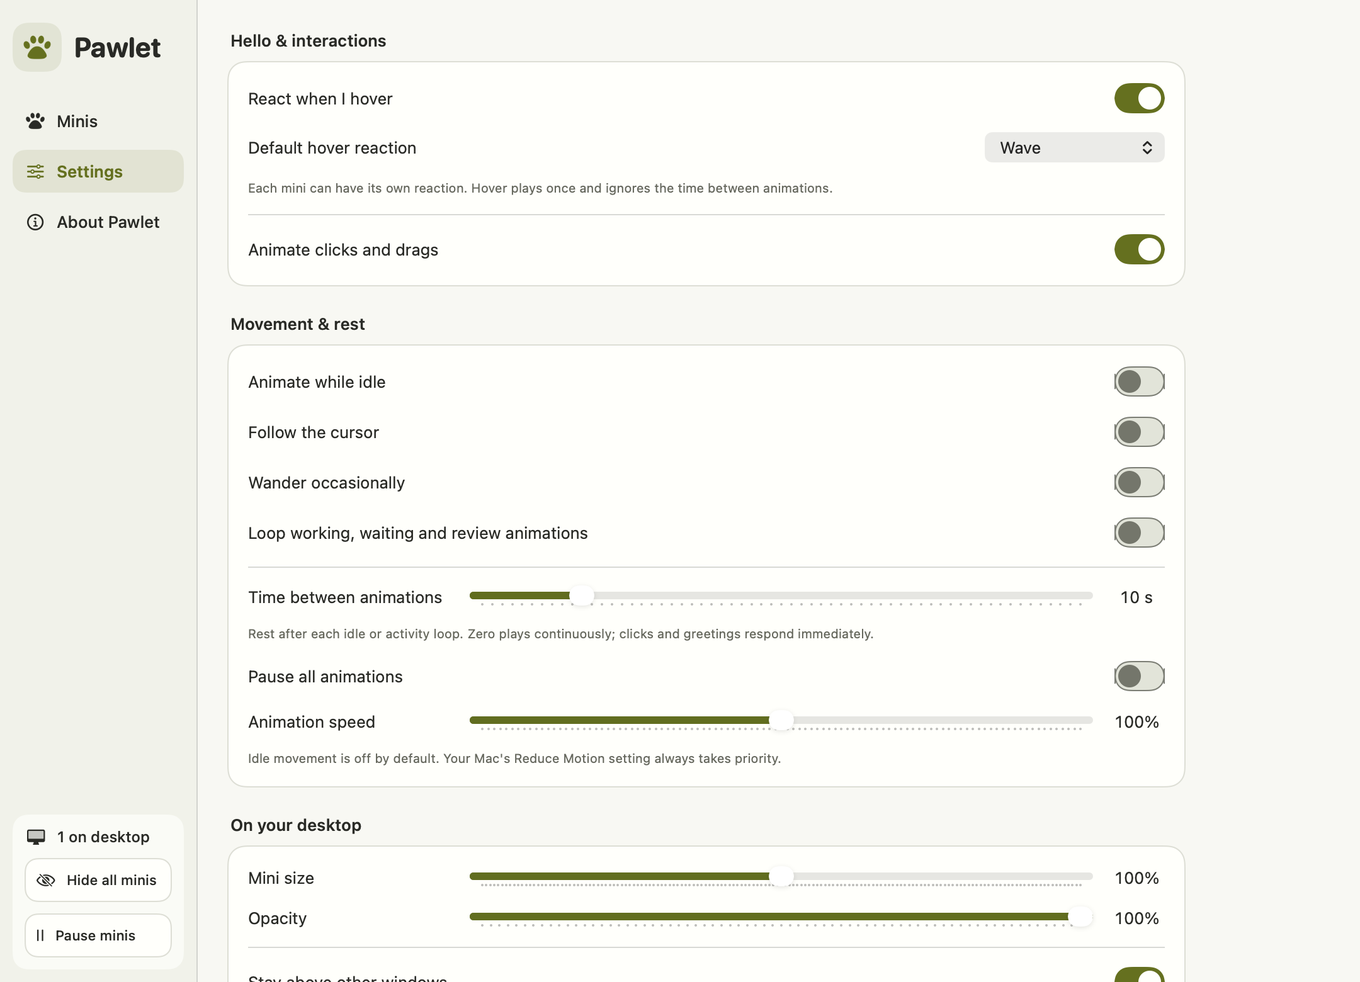
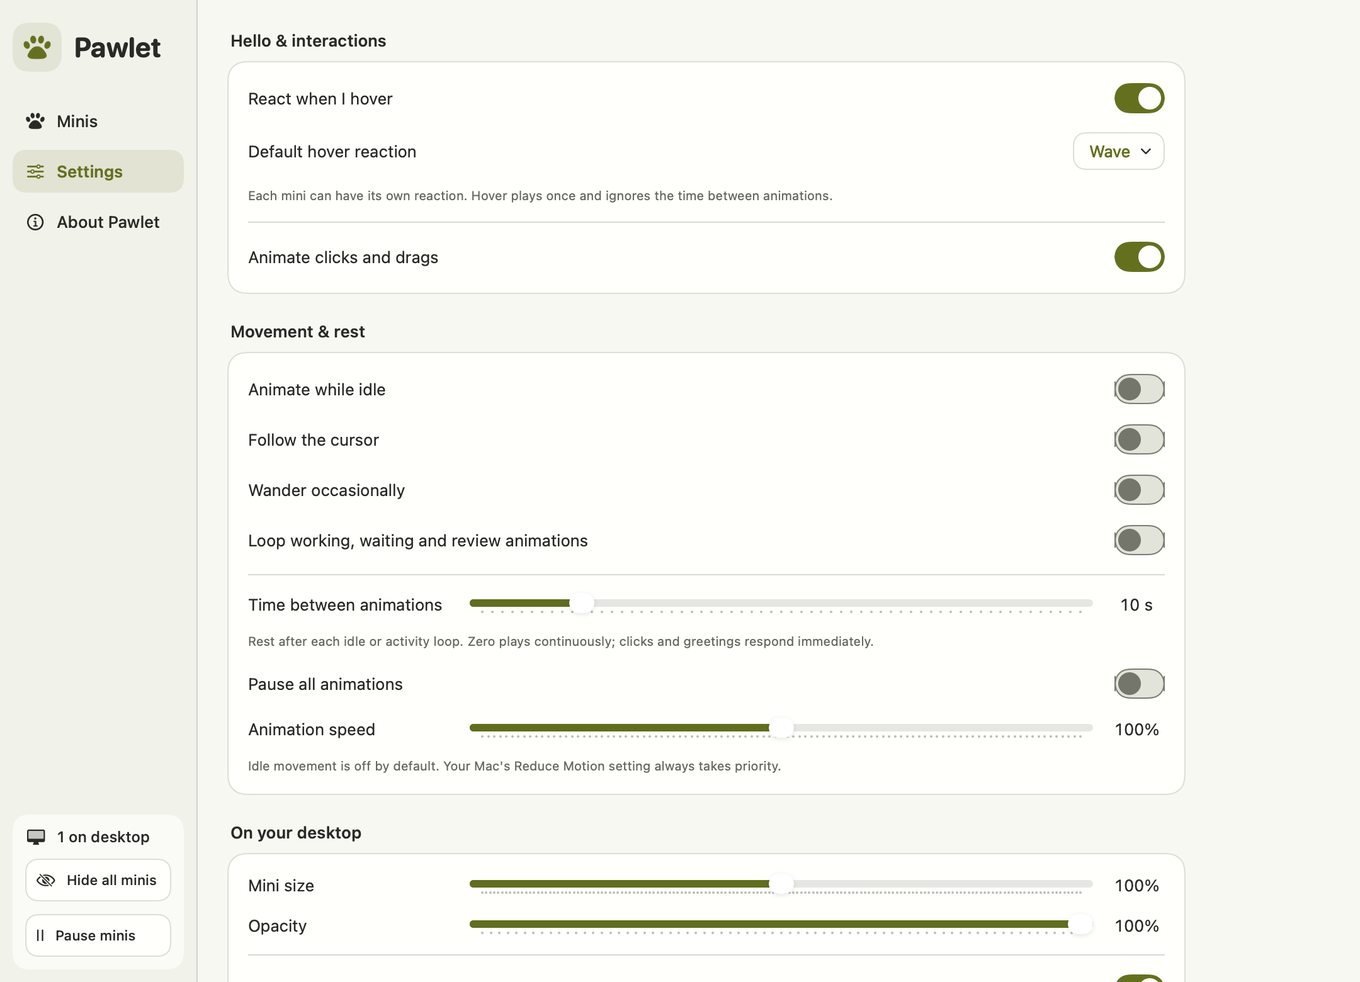
Use continuous corners throughout Pawlet controls and surfaces

diff --git a/Sources/Pawlet/library-view.swift b/Sources/Pawlet/library-view.swift
@@ -45,7 +45,7 @@ struct LibraryView: View {
         VStack(alignment: .leading, spacing: 22) {
             HStack(spacing: 10) {
                 Image(nsImage: app.pawImage).resizable().renderingMode(.template).scaledToFit().frame(width: 23, height: 23)
-                    .foregroundStyle(petAccent).padding(8).background(petAccent.opacity(0.10), in: RoundedRectangle(cornerRadius: 12)).accessibilityHidden(true)
+                    .foregroundStyle(petAccent).padding(8).background(petAccent.opacity(0.10), in: PawletTheme.roundedShape(12)).accessibilityHidden(true)
                 Text("Pawlet").font(.system(size: 22, weight: .bold, design: .rounded))
             }.padding(.top, 8)
             VStack(alignment: .leading, spacing: 6) {
@@ -66,7 +66,7 @@ struct LibraryView: View {
                     Label(app.settings.paused ? "Resume minis" : "Pause minis", systemImage: app.settings.paused ? "play" : "pause")
                         .font(.system(size: 11, weight: .medium)).frame(maxWidth: .infinity, alignment: .leading)
                 }.buttonStyle(PawletActionStyle(compact: true)).help("Pause or resume desktop animations")
-            }.padding(10).background(PawletTheme.surface.opacity(0.7), in: RoundedRectangle(cornerRadius: 12))
+            }.padding(10).background(PawletTheme.surface.opacity(0.7), in: PawletTheme.roundedShape(12))
         }.padding(10).frame(width: 156).frame(maxHeight: .infinity).background(PawletTheme.sidebar)
     }
     private func navigation(_ id: String, title: String, symbol: String) -> some View {
@@ -81,7 +81,7 @@ struct LibraryView: View {
             }.font(.system(size: 13, weight: app.section == id ? .semibold : .medium))
                 .frame(maxWidth: .infinity, alignment: .leading).padding(.horizontal, 10).padding(.vertical, 9)
                 .foregroundStyle(app.section == id ? petAccent : PawletTheme.ink)
-                .background(app.section == id ? petAccent.opacity(0.11) : .clear, in: RoundedRectangle(cornerRadius: 10))
+                .background(app.section == id ? petAccent.opacity(0.11) : .clear, in: PawletTheme.roundedShape(10))
         }.buttonStyle(.plain).accessibilityAddTraits(app.section == id ? .isSelected : []).accessibilityRemoveTraits(app.section == id ? [] : .isSelected)
     }
 
@@ -117,8 +117,8 @@ struct LibraryView: View {
                             if !search.isEmpty {
                                 Button { search = "" } label: { Image(systemName: "xmark.circle.fill") }.buttonStyle(.borderless).accessibilityLabel("Clear search")
                             }
-                        }.padding(10).background(PawletTheme.surface, in: RoundedRectangle(cornerRadius: 10))
-                            .overlay(RoundedRectangle(cornerRadius: 10).stroke(PawletTheme.border))
+                        }.padding(10).background(PawletTheme.surface, in: PawletTheme.roundedShape(10))
+                            .overlay(PawletTheme.roundedShape(10).stroke(PawletTheme.border))
                         ScrollView {
                             if filteredPets.isEmpty {
                                 Text("No minis found.").font(.callout).foregroundStyle(PawletTheme.secondary).padding(.top, 40)
@@ -161,12 +161,12 @@ struct LibraryView: View {
                 Label(visible ? "Hide mini" : "Show mini", systemImage: visible ? "eye.slash" : "plus.circle")
                     .font(.system(size: 11, weight: .medium)).frame(maxWidth: .infinity).frame(height: 28)
                     .foregroundStyle(visible ? petAccent : PawletTheme.ink)
-                    .background(visible ? petAccent.opacity(0.10) : PawletTheme.canvas, in: RoundedRectangle(cornerRadius: 8))
+                    .background(visible ? petAccent.opacity(0.10) : PawletTheme.canvas, in: PawletTheme.roundedShape(8))
             }.buttonStyle(.plain).accessibilityLabel("\(visible ? "Hide" : "Show") \(pet.manifest.name) on desktop")
                 .help("Show or hide \(pet.manifest.name) with one click; keep the current preview selected.")
                 .padding(.horizontal, 10).padding(.bottom, 10)
-        }.background(PawletTheme.surface).clipShape(RoundedRectangle(cornerRadius: 14))
-            .overlay(RoundedRectangle(cornerRadius: 14).stroke(selected ? petAccent : PawletTheme.border, lineWidth: selected ? 1.5 : 1))
+        }.background(PawletTheme.surface).clipShape(PawletTheme.roundedShape(14))
+            .overlay(PawletTheme.roundedShape(14).stroke(selected ? petAccent : PawletTheme.border, lineWidth: selected ? 1.5 : 1))
     }
 
     private var settingsPage: some View { SettingsView(app: app) }
@@ -180,8 +180,8 @@ struct LibraryView: View {
             Divider()
             Text("The app works without Codex. Codex is only used when you choose to create new artwork.")
             Text("No accounts, telemetry or network listener. Imported minis are image and metadata files; they don't run code.").font(.callout).foregroundStyle(.secondary)
-            Button("Learn about mini packs") { formatHelp = true }
-            Text("Version 0.6.0 · macOS 13+").font(.caption).foregroundStyle(.secondary)
+            Button("Learn about mini packs") { formatHelp = true }.buttonStyle(PawletActionStyle())
+            Text("Version 0.6.1 · macOS 13+").font(.caption).foregroundStyle(.secondary)
             Spacer()
         }.padding(36).frame(maxWidth: .infinity, alignment: .leading)
     }
@@ -191,12 +191,12 @@ struct LibraryView: View {
             Text("A mini in one file").font(.title.weight(.bold))
             Text("A .petpack is a ZIP with two files at its root:")
             Text("manifest.json\nspritesheet.png").font(.system(.body, design: .monospaced)).padding(16)
-                .frame(maxWidth: .infinity, alignment: .leading).background(.quaternary, in: RoundedRectangle(cornerRadius: 10))
+                .frame(maxWidth: .infinity, alignment: .leading).background(.quaternary, in: PawletTheme.roundedShape(10))
             Text("The JSON names the mini and its sprite format. The transparent PNG holds every pose in a fixed grid. Preview images are optional.")
             Text("Import also accepts a Codex mini folder or ZIP with pet.json and its sprite sheet. Use Share → Export for Codex to save the same artwork in that format, or use the folder button at the top of the library to browse all your minis.").font(.callout)
             Text("v2: 1536 × 2288, 192 × 208 cells, 9 animations + 16 gaze poses.\nv1: 1536 × 1872, 9 animations without gaze tracking.").font(.callout).foregroundStyle(.secondary)
             Text("A regular photo is a creation reference, not an animated mini. Use Create to turn it into one.").font(.callout)
-            HStack { Spacer(); Button("Got it") { formatHelp = false }.keyboardShortcut(.defaultAction) }
+            HStack { Spacer(); Button("Got it") { formatHelp = false }.buttonStyle(PawletActionStyle(prominent: true)).keyboardShortcut(.defaultAction) }
         }.padding(28).frame(width: 470)
     }
 }

diff --git a/Sources/Pawlet/create-pet-view.swift b/Sources/Pawlet/create-pet-view.swift
@@ -20,35 +20,41 @@ struct CreatePetView: View {
             }
             HStack(spacing: 12) {
                 Image(systemName: "sparkles").font(.system(size: 24)).foregroundStyle(petAccent)
-                    .frame(width: 54, height: 54).background(petAccent.opacity(0.10), in: RoundedRectangle(cornerRadius: 16)).accessibilityHidden(true)
+                    .frame(width: 54, height: 54).background(petAccent.opacity(0.10), in: PawletTheme.roundedShape(16)).accessibilityHidden(true)
                 VStack(alignment: .leading, spacing: 5) {
                     Text("An idea becomes a mini.").font(.system(size: 14, weight: .semibold))
                     Text("A tiny character with a personality of its own.").font(.callout).foregroundStyle(PawletTheme.secondary)
                 }
-            }.padding(16).frame(maxWidth: .infinity, alignment: .leading).background(PawletTheme.stage, in: RoundedRectangle(cornerRadius: 18))
+            }.padding(16).frame(maxWidth: .infinity, alignment: .leading).background(PawletTheme.stage, in: PawletTheme.roundedShape(18))
             VStack(alignment: .leading, spacing: 7) {
                 Text("Name").font(.callout.weight(.semibold))
-                TextField("What shall we call them?", text: $name).textFieldStyle(.roundedBorder).accessibilityLabel("Mini name")
+                TextField("What shall we call them?", text: $name).textFieldStyle(.plain)
+                    .padding(.horizontal, 12).frame(height: 36)
+                    .background(PawletTheme.surface, in: PawletTheme.roundedShape(10))
+                    .overlay(PawletTheme.roundedShape(10).strokeBorder(PawletTheme.border)).accessibilityLabel("Mini name")
             }
             VStack(alignment: .leading, spacing: 6) {
                 Text("What should it look like?").font(.callout.weight(.semibold))
-                TextEditor(text: $idea).accessibilityLabel("Character idea").font(.body).frame(height: 105).padding(6)
-                    .overlay(RoundedRectangle(cornerRadius: 8).stroke(.quaternary))
+                TextEditor(text: $idea).accessibilityLabel("Character idea").font(.body)
+                    .scrollContentBackground(.hidden).frame(height: 105).padding(8)
+                    .background(PawletTheme.surface, in: PawletTheme.roundedShape(10))
+                    .clipShape(PawletTheme.roundedShape(10))
+                    .overlay(PawletTheme.roundedShape(10).strokeBorder(PawletTheme.border))
             }
             HStack {
-                Picker("Style", selection: $style) { Text("Choose for me").tag("choose-for-me"); Text("3D toy").tag("3d-toy"); Text("Plush").tag("plush"); Text("Pixel").tag("pixel"); Text("Clay").tag("clay"); Text("Sticker").tag("sticker") }
+                Picker("Style", selection: $style) { Text("Choose for me").tag("choose-for-me"); Text("3D toy").tag("3d-toy"); Text("Plush").tag("plush"); Text("Pixel").tag("pixel"); Text("Clay").tag("clay"); Text("Sticker").tag("sticker") }.modifier(PawletMenuStyle())
                 Spacer()
-                Button(reference == nil ? "Add reference image…" : "Change image…") { chooseReference() }
+                Button(reference == nil ? "Add reference image…" : "Change image…") { chooseReference() }.buttonStyle(PawletActionStyle())
             }
             if let reference = reference { Label(reference.lastPathComponent, systemImage: "photo").font(.caption).foregroundStyle(.secondary) }
             Text("Opens a new Codex chat with the skill and prompt ready. Review it and press Send to begin. Image creation needs Codex and its image-creation plugin; your existing minis keep running independently.")
-                .font(.callout).foregroundStyle(.secondary)
+                .font(.callout).foregroundStyle(.secondary).fixedSize(horizontal: false, vertical: true)
             if let error = error { Text(error).foregroundStyle(.red).font(.callout) }
             HStack {
-                Button("Cancel") { app.isCreating = false }.keyboardShortcut(.cancelAction)
+                Button("Cancel") { app.isCreating = false }.buttonStyle(PawletActionStyle()).keyboardShortcut(.cancelAction)
                 Spacer()
-                Button("Copy prompt") { prepare(open: false) }.disabled(!valid)
-                Button("Open in Codex") { prepare(open: true) }.buttonStyle(PawletActionStyle(prominent: true)).disabled(!valid).opacity(valid ? 1 : 0.55)
+                Button("Copy prompt") { prepare(open: false) }.buttonStyle(PawletActionStyle()).disabled(!valid)
+                Button("Open in Codex") { prepare(open: true) }.buttonStyle(PawletActionStyle(prominent: true)).disabled(!valid)
             }
         }.padding(30).frame(width: 550).background(PawletTheme.canvas)
     }

diff --git a/Sources/Pawlet/animation-preview.swift b/Sources/Pawlet/animation-preview.swift
@@ -111,7 +111,7 @@ struct AnimationPreviewView: View {
                     Button { if model.isPlaying { model.stop() } else { model.play() } } label: {
                         Label(model.isPlaying ? "Pause" : "Play", systemImage: model.isPlaying ? "pause.fill" : "play.fill")
                             .font(.system(size: 12, weight: .semibold)).frame(width: 66)
-                    }.buttonStyle(.bordered).disabled(model.reducedMotion || model.atlas == nil)
+                    }.buttonStyle(PawletActionStyle(compact: true)).disabled(model.reducedMotion || model.atlas == nil)
                     Spacer()
                     Button { model.step(-1) } label: { Image(systemName: "backward.end.fill") }
                         .accessibilityLabel("Previous frame").help("Pause and show the previous frame")
@@ -125,8 +125,8 @@ struct AnimationPreviewView: View {
                     } label: { Text("\(model.speed.formatted())×").font(.caption.monospacedDigit()) }.frame(width: 48)
                 }.buttonStyle(.borderless).padding(16)
             }
-            .background(PawletTheme.stage, in: RoundedRectangle(cornerRadius: 20))
-            .overlay(RoundedRectangle(cornerRadius: 20).stroke(PawletTheme.border))
+            .background(PawletTheme.stage, in: PawletTheme.roundedShape(20))
+            .overlay(PawletTheme.roundedShape(20).stroke(PawletTheme.border))
             VStack(alignment: .leading, spacing: 10) {
                 HStack {
                     Text("ANIMATIONS").font(.system(size: 10, weight: .semibold)).tracking(1.3).foregroundStyle(PawletTheme.secondary)
@@ -143,8 +143,8 @@ struct AnimationPreviewView: View {
                             Label(clip.title, systemImage: clip.symbol).lineLimit(1).minimumScaleFactor(0.85).font(.system(size: 11, weight: model.clip == clip ? .semibold : .medium))
                                 .frame(maxWidth: .infinity, alignment: .leading).padding(.horizontal, 10).frame(height: 33)
                                 .foregroundStyle(model.clip == clip ? petAccent : Color.primary)
-                                .background(model.clip == clip ? petAccent.opacity(0.12) : PawletTheme.surface, in: RoundedRectangle(cornerRadius: 9))
-                                .overlay(RoundedRectangle(cornerRadius: 9).stroke(model.clip == clip ? petAccent.opacity(0.5) : PawletTheme.border))
+                                .background(model.clip == clip ? petAccent.opacity(0.12) : PawletTheme.surface, in: PawletTheme.roundedShape(9))
+                                .overlay(PawletTheme.roundedShape(9).stroke(model.clip == clip ? petAccent.opacity(0.5) : PawletTheme.border))
                         }.buttonStyle(.plain).accessibilityAddTraits(model.clip == clip ? .isSelected : []).accessibilityRemoveTraits(model.clip == clip ? [] : .isSelected).help(clip.detail)
                     }
                 }.disabled(model.atlas == nil)

diff --git a/Sources/Pawlet/settings-view.swift b/Sources/Pawlet/settings-view.swift
@@ -13,7 +13,7 @@ struct SettingsView: View {
                         Spacer()
                         Picker("Default hover reaction", selection: $app.settings.hoverReaction) {
                             ForEach(HoverReaction.allCases, id: \.rawValue) { reaction in Text(reaction.title).tag(reaction) }
-                        }.labelsHidden().fixedSize().disabled(!app.settings.greetOnHover)
+                        }.modifier(PawletMenuStyle()).labelsHidden().fixedSize().disabled(!app.settings.greetOnHover)
                     }
                     hint("Each mini can have its own reaction. Hover plays once and ignores the time between animations.")
                     Divider()
@@ -54,7 +54,7 @@ struct SettingsView: View {
                         Spacer()
                         Picker("Appearance", selection: $app.settings.appearance) {
                             Text("System").tag("system"); Text("Light").tag("light"); Text("Dark").tag("dark")
-                        }.labelsHidden().fixedSize()
+                        }.modifier(PawletMenuStyle()).labelsHidden().fixedSize()
                     }
                     Divider()
                     HStack(spacing: 10) {
@@ -72,8 +72,8 @@ struct SettingsView: View {
             Text(title).font(.system(size: 13, weight: .semibold)).padding(.leading, 2)
             VStack(alignment: .leading, spacing: 14, content: content)
                 .padding(16).frame(maxWidth: .infinity, alignment: .leading)
-                .background(PawletTheme.surface, in: RoundedRectangle(cornerRadius: 14))
-                .overlay(RoundedRectangle(cornerRadius: 14).stroke(PawletTheme.border))
+                .background(PawletTheme.surface, in: PawletTheme.roundedShape(14))
+                .overlay(PawletTheme.roundedShape(14).stroke(PawletTheme.border))
         }
     }
     private func hint(_ text: String) -> some View {
@@ -89,9 +89,9 @@ struct PawletToggleStyle: ToggleStyle {
             HStack(spacing: 16) {
                 configuration.label
                 Spacer(minLength: 12)
-                RoundedRectangle(cornerRadius: 12, style: .continuous)
+                PawletTheme.roundedShape(12)
                     .fill(configuration.isOn ? PawletTheme.accent : PawletTheme.switchOff).frame(width: 40, height: 24)
-                    .overlay(RoundedRectangle(cornerRadius: 12, style: .continuous).strokeBorder(configuration.isOn ? .clear : PawletTheme.switchBorder))
+                    .overlay(PawletTheme.roundedShape(12).strokeBorder(configuration.isOn ? .clear : PawletTheme.switchBorder))
                     .overlay(alignment: configuration.isOn ? .trailing : .leading) {
                         Circle().fill(configuration.isOn ? PawletTheme.switchThumbOn : PawletTheme.switchThumbOff)
                             .frame(width: 18, height: 18).padding(3)

diff --git a/Sources/Pawlet/design-theme.swift b/Sources/Pawlet/design-theme.swift
@@ -15,6 +15,9 @@ enum PawletTheme {
     static let switchBorder = color(light: 0x7A7D73, dark: 0x829083)
     static let switchThumbOn = color(light: 0xFFFFFB, dark: 0x1C1E1D)
     static let switchThumbOff = color(light: 0x73766A, dark: 0xC3CBC2)
+    static func roundedShape(_ radius: CGFloat) -> RoundedRectangle {
+        RoundedRectangle(cornerRadius: radius, style: .continuous)
+    }
     private static func color(light: UInt32, dark: UInt32) -> Color {
         Color(nsColor: NSColor(name: nil) { appearance in
             let value = appearance.bestMatch(from: [.darkAqua, .aqua]) == .darkAqua ? dark : light
@@ -31,8 +34,24 @@ struct PawletActionStyle: ButtonStyle {
         configuration.label.font(.system(size: compact ? 11 : 12, weight: .semibold))
             .padding(.horizontal, compact ? 8 : 13).frame(height: 34)
             .foregroundStyle(prominent ? Color.white : PawletTheme.ink)
-            .background(prominent ? PawletTheme.button : PawletTheme.surface, in: RoundedRectangle(cornerRadius: 10))
-            .overlay(RoundedRectangle(cornerRadius: 10).stroke(prominent ? PawletTheme.button : PawletTheme.border))
+            .background(prominent ? PawletTheme.button : PawletTheme.surface, in: PawletTheme.roundedShape(10))
+            .overlay(PawletTheme.roundedShape(10).strokeBorder(prominent ? PawletTheme.button : PawletTheme.border))
             .opacity(!isEnabled ? 0.45 : configuration.isPressed ? 0.72 : 1)
+    }
+}
+
+struct PawletMenuStyle: ViewModifier {
+    @Environment(\.isEnabled) private var isEnabled
+
+    func body(content: Content) -> some View {
+        content.pickerStyle(.menu).menuStyle(.borderlessButton).buttonStyle(.plain)
+            .padding(.horizontal, 10).padding(.trailing, 14).frame(minHeight: 30)
+            .overlay(alignment: .trailing) {
+                Image(systemName: "chevron.down").font(.system(size: 9, weight: .semibold))
+                    .padding(.trailing, 10).allowsHitTesting(false).accessibilityHidden(true)
+            }
+            .background(PawletTheme.surface, in: PawletTheme.roundedShape(10))
+            .overlay(PawletTheme.roundedShape(10).strokeBorder(PawletTheme.border))
+            .opacity(isEnabled ? 1 : 0.45)
     }
 }

diff --git a/Sources/Pawlet/pet-inspector-view.swift b/Sources/Pawlet/pet-inspector-view.swift
@@ -29,7 +29,7 @@ struct PetInspectorView: View {
                 Picker("On hover", selection: Binding(get: { app.hoverOverride(for: pet.id)?.rawValue ?? "default" }, set: { app.setHoverOverride(HoverReaction(rawValue: $0), for: pet.id) })) {
                     Text("Default (\(app.settings.hoverReaction.title))").tag("default")
                     ForEach(HoverReaction.allCases, id: \.rawValue) { reaction in Text(reaction.title).tag(reaction.rawValue) }
-                }.labelsHidden().font(.callout).fixedSize().disabled(!app.settings.greetOnHover)
+                }.modifier(PawletMenuStyle()).labelsHidden().font(.callout).fixedSize().disabled(!app.settings.greetOnHover)
                     .help("Choose this mini's greeting, or follow the default in Settings. Each entry plays once without a cooldown.")
             }.padding(.vertical, 2)
             if !app.settings.greetOnHover { Text("Hover reactions are off in Settings.").font(.caption).foregroundStyle(PawletTheme.secondary) }
@@ -53,8 +53,8 @@ struct PetInspectorView: View {
                 } label: { Label("Share", systemImage: "square.and.arrow.up") }.menuStyle(.borderlessButton).fixedSize()
             }
         }.padding(16)
-        .background(PawletTheme.surface.opacity(0.55), in: RoundedRectangle(cornerRadius: 18))
-        .overlay(RoundedRectangle(cornerRadius: 18).stroke(PawletTheme.border))
+        .background(PawletTheme.surface.opacity(0.55), in: PawletTheme.roundedShape(18))
+        .overlay(PawletTheme.roundedShape(18).stroke(PawletTheme.border))
         .onAppear { preview.window = app.controls }
         .onDisappear { preview.stop() }
     }

diff --git a/README.md b/README.md
@@ -22,7 +22,7 @@ open build/Pawlet.app
 
 The runnable app is **`build/Pawlet.app`** inside your checkout. You can drag it into Applications. Builds support Apple silicon and Intel by default. To update a checkout, quit Pawlet, run `git pull --ff-only`, rebuild, and open the rebuilt app.
 
-The 0.6.0 preview is ad-hoc signed. Developer ID signing and Apple notarization are deferred; no App Store distribution is planned. Downloadable DMG/ZIP previews can be built with `bash scripts/release.sh` or the **Build downloadable preview** GitHub Actions workflow. Until a [GitHub Release](https://github.com/ruzwid/pawlet/releases) is published, cloning and building is the primary installation path. Downloaded previews may need approval in System Settings → Privacy & Security. See [distribution](docs/distribution.md).
+The 0.6.1 preview is ad-hoc signed. Developer ID signing and Apple notarization are deferred; no App Store distribution is planned. Downloadable DMG/ZIP previews can be built with `bash scripts/release.sh` or the **Build downloadable preview** GitHub Actions workflow. Until a [GitHub Release](https://github.com/ruzwid/pawlet/releases) is published, cloning and building is the primary installation path. Downloaded previews may need approval in System Settings → Privacy & Security. See [distribution](docs/distribution.md).
 
 The first launch opens **Your minis**. The compact sidebar keeps Minis, Settings and About close at hand. Use **Import** to add a `.petpack`, mini ZIP, Codex mini folder, `pet.json`, or complete compatible PNG atlas. Use **Share** to export a pack, ordinary ZIP, or Codex folder; **Minis folder** in the top toolbar opens the whole library in Finder. To inspect one mini, choose **Options → Show this mini’s files**. Exported files are revealed in Finder too. Double-clicking a `.petpack` also imports it. Hover over a mini for a brief hello, click to wave, double-click to jump, drag to move it, or right-click for its other poses. The paw in the menu bar lets you reopen the library, show/hide minis, pause, or quit. Closing the library keeps the minis running.
 

diff --git a/docs/design.md b/docs/design.md
@@ -13,3 +13,5 @@ Preview and desktop playback are independent. Each has its own pause and timing 
 The library uses a single “Your minis” heading with a quiet count. Navigation keeps visible labels in a compact sidebar, without section captions or repeated taglines. The paw is an original vector drawing with plump oval toes and a smooth rounded triangular pad. The application icon pairs a coral paw with warm cream; template versions follow the interface accent and macOS menu-bar appearance.
 
 Light mode follows the supplied Granola reference with warm paper surfaces, charcoal text and olive accents. The sidebar uses a defined surface rather than a system material. Settings use the same semantic tokens as the library, with compact sections and no page title or subtitle. Switches use contrasting thumbs, separate off-state outlines and native Toggle accessibility representations; the whole row is clickable. Dark mode keeps its forest and mint palette.
+
+All app-owned rounded surfaces use `PawletTheme.roundedShape`, a SwiftUI continuous rounded rectangle. Backgrounds, clipping and borders share the same geometry. Fields and dropdown shells follow it too; native macOS windows, menus and alerts retain system chrome. Circular slider and switch thumbs stay circular.

diff --git a/CHANGELOG.md b/CHANGELOG.md
@@ -1,5 +1,10 @@
 # Changelog
 
+## 0.6.1
+
+- Use continuous squircle-style corners for cards, panels, buttons, search, animation chips and switches.
+- Give creation fields and dropdowns matching themed borders while retaining native editing and menu accessibility.
+
 ## 0.6.0
 
 - Give light mode a paper-and-olive palette inspired by the supplied Granola reference.
